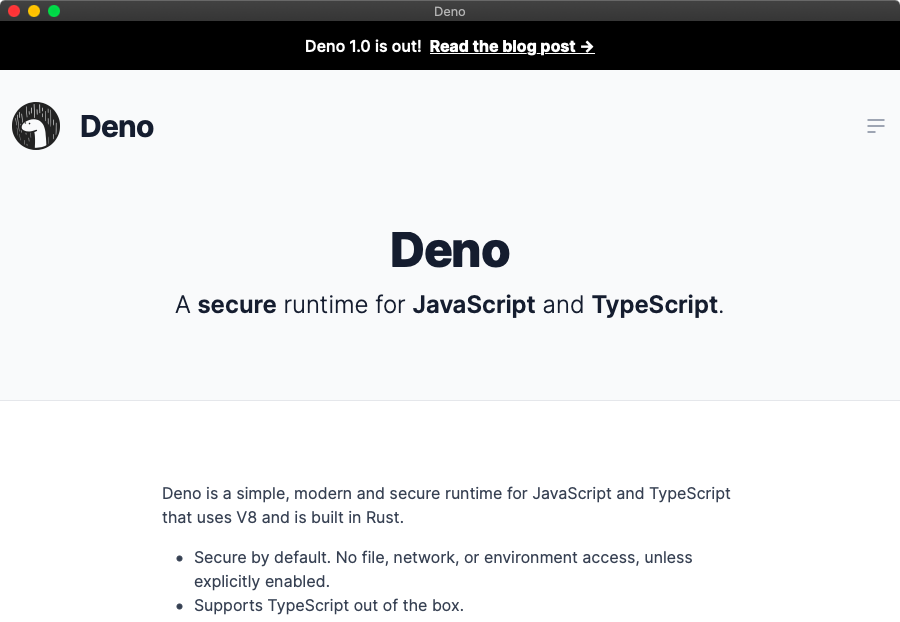
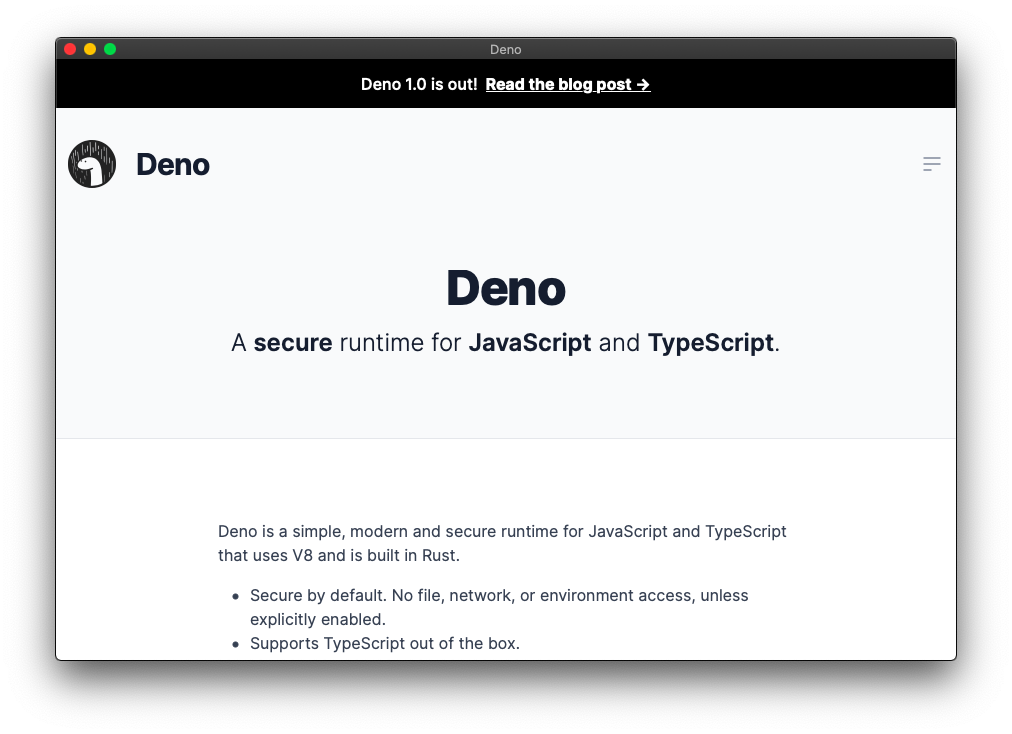
changed readme screenshot

Changed region(s): [[0.0, 0.0, 1.0, 1.0], [0.1867, 0.4582, 0.8089, 0.5193], [0.4356, 0.3666, 0.5911, 0.4277]]

diff --git a/README.md b/README.md
@@ -5,7 +5,8 @@
 [![PRs Welcome](https://img.shields.io/badge/PRs-welcome-brightgreen.svg?style=flat-square)](http://makeapullrequest.com)
 
 
-![Demo](./readme-assets/demo.png)
+![Demo]()
+<img alt="Demo" width="500" src="./readme-assets/demo.png" />
 
 ## 🌏 Options
 To open a website as a window, run 
